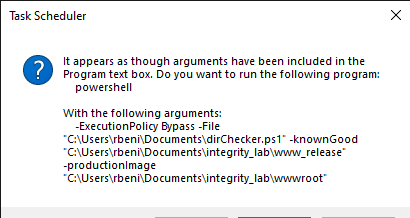
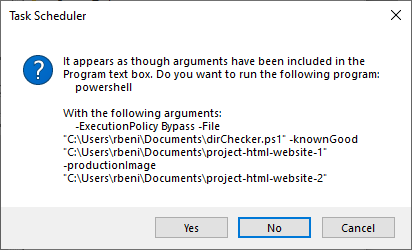
Changes lab_02

Changed region(s): [[0.0293, 0.2202, 0.9659, 0.9633], [0.0, 0.0, 1.0, 1.0]]

diff --git a/labs/lab_02/README.md b/labs/lab_02/README.md
@@ -143,19 +143,49 @@ Please close the scheduler and open it back again. You should now see your task 
 
 ## Activity 8: Getting results
 
-Depending on the kind of trigger you chose, you should get the powershell screen and see the same changes identified in lab_01.
+Select your task from the list and on the right side of the screen click on "Run" to test it.
 
-If you are not really sure which trigger you chose and want to test your task, select your task from the list and on the right side of the screen click on "Run" to test it.
+Now the code will execute, show you the findings, and wait for you to press a key yo continue and close the script.
 
-NOTE: If you directly downloaded the code from the NSA's repo the screen will open and close automatically. If you use the script from the lab_01 you should see at the end of the dirCkecker.ps1 the following:
-```cmd
-timeout /t -1
-```
-Please add it if it is not there.
+---
 
-Now the code will execute, show you the findings, and wait for you to press a key yo continue and close the script. The changes shown here are not neccesarily the ones you should get. You should get the ones from lab_01.
+### **Exercise 1: Comparing "project-html-website-2" against "project-html-website-1".**
 
-![Findings](/labs/lab_02/os_windows/images/08_Findings.png)
+1. Where changes identified?  Yes/No
+2. Are there new or modified directories? Yes/No
+3. What are the directories names?
+4. Are there new or modified files? Yes/No
+5. What are the files names?
+
+---
+
+### **Exercise 2: Comparing "project-html-website-3" against "project-html-website-1".**
+
+Download [project-html-website-3.zip](https://github.com/rbenitezpagan/labs_integrity/raw/master/app_2/project-html-website-3.zip) into **Documents** and unzip it.
+
+On the Task Scheduler, click properties and modify your task's action to use "**project-html-website-3**" instead of "**project-html-website-2**". (See [Activity 4](https://github.com/rbenitezpagan/labs_integrity/tree/master/labs/lab_02#activity-4-design-your-tasks-action) for guidance.)
+
+1. Where changes identified?  Yes/No
+2. Are there new directories? Yes/No
+3. What are the directories names?
+4. Are there new or modified files? Yes/No
+5. What are the files names?
+
+---
+
+### **Exercise 3: Comparing "project-html-website-4" against "project-html-website-1".**
+
+Download [project-html-website-4.zip](https://github.com/rbenitezpagan/labs_integrity/raw/master/app_2/project-html-website-4.zip) into **Documents** and unzip it.
+
+On the Task Scheduler, click properties and modify your task's action to use "**project-html-website-4**" instead of "**project-html-website-3**". (See [Activity 4](https://github.com/rbenitezpagan/labs_integrity/tree/master/labs/lab_02#activity-4-design-your-tasks-action) for guidance.)
+
+1. Where changes identified?  Yes/No
+2. Are there new directories? Yes/No
+3. What are the directories names?
+4. Are there new or modified files? Yes/No
+5. What are the files names?
+
+---
 
 ## Activity 9: Cleaning
 
